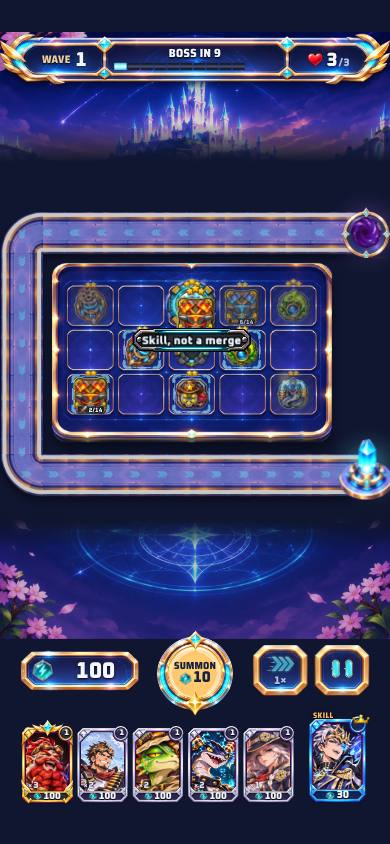
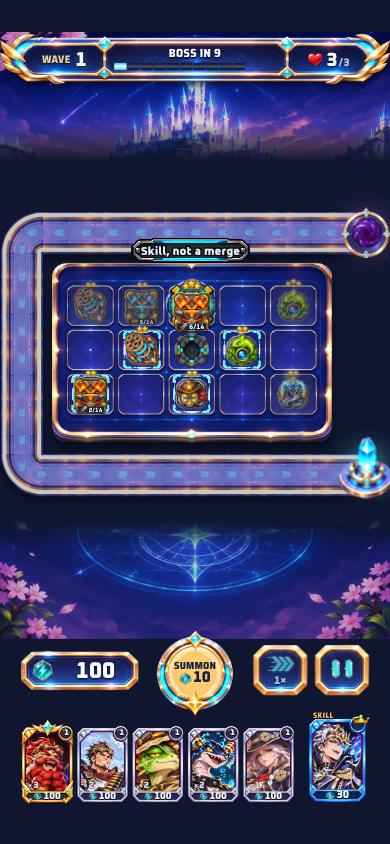
Static Jammer: vòng xích + khoá và dây xích nối cặp (ảnh ChatGPT); Twin Anvil: huy hiệu TWIN-FORGED cố định, nhãn kéo không che ô
Claude-Session: https://claude.ai/code/session_01KQA7LFBkcdkiPiLcwYs7V2

diff --git a/thap/js/render.js b/thap/js/render.js
@@ -1101,9 +1101,25 @@ const REN = {
         if (ng && ng.ban === B.i && ng !== T && !hopLeGhep(ng, T)) o.alpha = 0.62; // ô không ghép được: mờ nhẹ (spec TU-VAN-HIEU-UNG-CHUNG mục 1D)
         this.veU(ctx, T, B.o[i].x, B.o[i].y, o);
       }
+      this.veXichDay(ctx, B);
     }
     // ụ bay vào nhau khi ghép
     for (const b of G.bay) VX.veBay(ctx, b, this);
+  },
+
+  // Static Jammer (12/11): DÂY XÍCH nối 2 ụ của cùng một cặp xích — ảnh ChatGPT trum_xich_day (5 mắt, lặp nối tiếp) đặt dọc đoạn nối tâm 2 ô,
+  //  vẽ TRÊN lớp ụ (dưới thì ụ che gần hết khi 2 ô sát nhau). Chỉ là hình: đọc T.xich, không đổi trạng thái trận. Bàn con rối online chưa có T.xich → chỉ có vòng.
+  veXichDay(ctx, B) {
+    let im = null;
+    for (const T of B.t) {
+      if (!T || !T.xich || !T.xich.doi) continue;
+      const D = B.t.find(N => N && N.uid === T.xich.doi && N.xich); if (!D || D.uid < T.uid) continue; // mỗi cặp vẽ 1 lần
+      if (!im && !(im = this.img('trum_xich_day'))) return;
+      const a = B.o[T.o], b = B.o[D.o], L = Math.hypot(b.x - a.x, b.y - a.y), h = Math.min(B.cw, B.ch) * 0.22, tw0 = h * im.width / im.height;
+      const n = Math.max(1, Math.round(L / tw0)), tw = L / n, g = Math.atan2(b.y - a.y, b.x - a.x), al = ctx.globalAlpha;
+      for (let i = 0; i < n; i++) { const u = (i + 0.5) / n; this.anhGiua(ctx, im, a.x + (b.x - a.x) * u, a.y + (b.y - a.y) * u, tw, g || 1e-6, 0.95); }
+      ctx.globalAlpha = al;
+    }
   },
 
   // vẽ 1 ụ: bóng · bệ · đầu súng xoay (giật lùi) · lớp phủ trạng thái · xúc xắc sao
@@ -1211,7 +1227,9 @@ const REN = {
     if (skT.veThemTren) veThem();
     // bản sao của Copycat: quầng TÍM (màu ảo ảnh của đầu Copycat) rõ hơn + huy hiệu nho/saochep ở góc trên-trái (nhandien.js) → không nhầm với ụ thật
     if (T.banSao && !o.ghost) { ctx.save(); ctx.globalCompositeOperation = 'lighter'; ctx.globalAlpha = al * 0.22; this.anhGiua(ctx, this.cham1('#a35cff'), 0, 0, S * 1.05); /* VFX P3 */ ctx.restore(); ctx.globalAlpha = al; }
-    const xich = T.st.kep > 0 && !o.ghost ? this.co('vong_xich', S * 0.9) : null; // vòng xích ChatGPT (S4), xoay chậm
+    const xJam = T.st.cam > 0 && T.st.kep > 0 && !o.ghost; // bị Static Jammer XÍCH: vòng xích tím + ổ khoá ở đáy (ảnh ChatGPT trum_xich_vong, đứng yên — khoá không che số sao phía trên)
+    if (xJam && this.img('trum_xich_vong')) { this.anhGiua(ctx, 'trum_xich_vong', 0, 0, S * 1.05, 0, al * 0.96); ctx.globalAlpha = al; }
+    const xich = T.st.kep > 0 && !o.ghost && !(xJam && this.img('trum_xich_vong')) ? this.co('vong_xich', S * 0.9) : null; // vòng xích ChatGPT (S4), xoay chậm (Kẹp / Nhiễu; Jammer khi ảnh mới chưa tải)
     if (xich) { ctx.save(); ctx.globalAlpha = al * 0.9; ctx.rotate(this.t * 0.6); ctx.drawImage(xich, -S * 0.45, -S * 0.45, S * 0.9, S * 0.9); ctx.restore(); ctx.globalAlpha = al; }
     // lớp phủ trạng thái
     // băng (Freezer & mọi nguồn): khối băng bọc ô + vành + lấp lánh; hết băng → vỡ (js/bangfx.js)

diff --git a/thap/js/demkn.js b/thap/js/demkn.js
@@ -38,7 +38,7 @@ const DEMKN = {
   // ĐỘT PHÁ (vangmoi1.js DOTPHA): bậc 1–4 → icon PNG lọc màu (vàng / lam / tím / trắng, ảnh dựng 1 lần) + chữ cùng màu
   // ụ đã được Twin Anvil rèn (mọi loại): số cộng dồn; SONG SINH = 2 cặp, chữ vàng
   anv(T) { const a = T.anv; return a && a.lo ? { m: a.x ? [{ ic: 'ic_dmg', s: a.lo + '' }, { ic: 'ic_toc', s: a.lo + '' }] : [{ ic: a.k === 'toc' ? 'ic_toc' : 'ic_dmg', s: a.lo + '' }], sang: !!a.x } : null; },
-  lay(T, B) { const f = this.DS[T.id] || (T.anv ? this.anv : null); if (!f || !B || T.st.da) return null; try { const v = f(T, B); if (v && typeof DOTPHA !== 'undefined') { const b = DOTPHA.bacU(T); if (b) { v.bac = b; v.v4 = b === 4 ? DOTPHA.buoc4() : -1; v.mau = b === 4 ? ['#ffb0b0', '#fff0a0', '#b0ffb8', '#a8f4ff', '#b8c4ff', '#ffb8f4'][v.v4] : DOTPHA.MAU[b]; v.sang = false; if (T.id === 'lualien') v.giuMau = 1; } } return v; } catch (e) { return null; } }, // Ember (lualien): icon lửa lua_t1–4 đã tô màu theo mốc → giuMau, không phủ lọc màu bậc (sửa lỗi tester 08/11)
+  lay(T, B) { const f = this.DS[T.id] || (T.anv && !T.anv.x ? this.anv : null); if (!f || !B || T.st.da) return null; try { const v = f(T, B); if (v && typeof DOTPHA !== 'undefined') { const b = DOTPHA.bacU(T); if (b) { v.bac = b; v.v4 = b === 4 ? DOTPHA.buoc4() : -1; v.mau = b === 4 ? ['#ffb0b0', '#fff0a0', '#b0ffb8', '#a8f4ff', '#b8c4ff', '#ffb8f4'][v.v4] : DOTPHA.MAU[b]; v.sang = false; if (T.id === 'lualien') v.giuMau = 1; } } return v; } catch (e) { return null; } }, // Ember (lualien): icon lửa lua_t1–4 đã tô màu theo mốc → giuMau, không phủ lọc màu bậc (sửa lỗi tester 08/11)
 
   // khung h2_tag (74×30, mép 14 px) cắt 3 mảnh: 2 đầu giữ tỉ lệ, phần giữa kéo dài
   khung(ctx, x, y, w, h) {
@@ -53,6 +53,8 @@ const DEMKN = {
   // CHỐNG NÓNG MÁY: tấm đếm dựng sẵn thành ẢNH (đúng điểm ảnh thiết bị) theo nội dung — chỉ dựng lại khi số đổi
   // (trước: mỗi khung đo chữ + viền chữ + tô chữ cho từng ụ). Đặt ảnh đúng lưới điểm ảnh → chữ nét y hệt vẽ trực tiếp.
   ve(ctx, T, B, x, yDay, c, al) {
+    // TWIN-FORGED (Twin Anvil song sinh): huy hiệu ảnh loren_songsinh ở góc dưới-phải ô (thay 2 con số nhỏ khó đọc) — không đè số sao (trên) / tấm đếm (giữa đáy)
+    if (T.anv && T.anv.x && !T.st.da && typeof REN !== 'undefined' && REN.img('loren_songsinh')) { const g = ctx.globalAlpha; REN.anhGiua(ctx, 'loren_songsinh', x + c * 0.31, yDay - c * 0.13, c * 0.34, 0, al); ctx.globalAlpha = g; }
     const v = this.lay(T, B); if (!v) return;
     const h = Math.max(9, c * 0.2), m = ctx.getTransform(), k = m.a;
     if (!(k > 0) || Math.abs(m.b) > 1e-6 || Math.abs(m.c) > 1e-6 || Math.abs(m.d - k) > 1e-6 || typeof REN === 'undefined' || !REN.cGet) return this.ve0(ctx, v, x, yDay, h, al);

diff --git a/thap/js/ui.js b/thap/js/ui.js
@@ -214,7 +214,7 @@ c.style.setProperty('--m', TIERS[r.bac].mau);
     // (bỏ nạp fx_sinhdoi_hieu: biểu tượng sinh đôi nổi trên ô đã bỏ 08/11, hieuung.js không vẽ nữa)
     for (const b of bans) for (const id of b.deck) ds.push('glyph/' + id); // biểu tượng nhận diện (ảnh ChatGPT, bóng trắng)
     // ảnh ChatGPT thay hình vẽ code trên canvas: huy hiệu sao, ngọc độ hiếm, icon buff, lõi hư, mũi tên đường, bảng tên bàn
-    ds.push('sao_hex', 'sao_hex7', 'ngoc_trang', 'ngoc_xanh', 'ngoc_tim', 'ngoc_vang', 'ngoc_do', 'loi_hu1', 'loi_hu2', 'duong_mui', 'hud_ten_ban', 'fx_vong_lv', 'vong_xich', 'fx_vong_trieu', 'hat_tuyet', 'pandora_dia', 'hu_hoden', 'hu_khoa', 'hu_luoicua', 'hu_manhguong', 'hu_trangkhuyet', 'hu_min', 'hu_cauvong',
+    ds.push('sao_hex', 'sao_hex7', 'ngoc_trang', 'ngoc_xanh', 'ngoc_tim', 'ngoc_vang', 'ngoc_do', 'loi_hu1', 'loi_hu2', 'duong_mui', 'hud_ten_ban', 'fx_vong_lv', 'vong_xich', 'trum_xich_vong', 'trum_xich_day', 'loren_songsinh', 'fx_vong_trieu', 'hat_tuyet', 'pandora_dia', 'hu_hoden', 'hu_khoa', 'hu_luoicua', 'hu_manhguong', 'hu_trangkhuyet', 'hu_min', 'hu_cauvong',
       'ic_toc', 'ic_dmg', 'ic_crit', 'ic_cham', 'ic_chet', 'ic_mana', 'ic_khien', 'ic_taylo', 'ic_sao', 'ic_bom', 'ic_truyna');
     if (typeof BVX !== 'undefined') ds.push(...BVX.ANH); // hào quang buff (buffvfx.js)
     for (const q of Object.keys(QUAI)) ds.push('quai_' + (QUAI[q].anh || q));

diff --git a/thap/js/ghepfx.js b/thap/js/ghepfx.js
@@ -214,6 +214,7 @@ const GF = {
     if (KG.soMeo() >= 3 && (s === KG.TXT.tip || s === KG.TXT.tapTip)) return; // mẹo kỹ năng kéo thả / ghép đặc biệt: luôn hiện
     if (!KG._tip || KG._tip.s !== s) KG._tip = { s, t0: performance.now() };
     const u = Math.min(1, (performance.now() - KG._tip.t0) / 140);
+    if (src.id === 'loren' && dang) { KG.tam(ctx, s, B.x + B.w / 2, B.y - 12, 13, '#eaf6ff', u, 0.9 + 0.1 * u); return; } // Twin Anvil (12/11): nhãn nằm TRÊN mép bàn — đặt dưới ô đích thì che ụ hàng dưới
     KG.tam(ctx, s, c.x, Math.min(y, B.y + B.h - 10), 13, '#eaf6ff', u, 0.9 + 0.1 * u);
   },
 

diff --git a/thap/js/keoghep.js b/thap/js/keoghep.js
@@ -114,6 +114,7 @@ const KG = {
     if (this.soMeo() >= 3 && (s === this.TXT.tip || s === this.TXT.tapTip)) return;
     if (!this._tip || this._tip.s !== s) this._tip = { s, t0: performance.now() };
     const u = Math.min(1, (performance.now() - this._tip.t0) / 140);
+    if (src.id === 'loren') { this.tam(ctx, s, B.x + B.w / 2, B.y - 12, 13, '#eaf6ff', u, 0.9 + 0.1 * u); return; } // Twin Anvil (12/11): nhãn nằm TRÊN mép bàn — trước đó che ụ ở hàng trên ô đích
     this.tam(ctx, s, c.x, c.y - Math.min(B.cw, B.ch) * 0.78, 13, '#eaf6ff', u, 0.9 + 0.1 * u);
   },
   // tấm chữ (ảnh nhan_kn) + chữ canvas

diff --git a/thap/QUY-TAC-HINH.md b/thap/QUY-TAC-HINH.md
@@ -14,3 +14,5 @@
 9. **Kiểm tra gọn (tiết kiệm token — người dùng 08/11):** theo chính sách test trong CLAUDE.md: sửa nhỏ = `node --check` + tối đa 1 test liên quan; sửa giao diện thêm 1 ảnh 390×844; chỉ thay đổi lớn mới chạy bộ liên quan. Hồi quy đầy đủ (`tools/thap-kt-hoiquy.js`) chỉ chạy khi người dùng yêu cầu.
 - (Hướng quái) Quái/tinh anh/trùm ĐI theo hướng làn (ngang = nhìn nghiêng, lên = quay lưng, xuống = mặt trước); chỉ khi DÙNG SKILL mới quay mặt về phía bàn ụ, xong quay lại hướng làn. Áp dụng mọi chế độ.
 10. **Hợp đồng kéo-thả bộ bài (js/dkkeo.js) — đổi giao diện ô/lưới phải GIỮ**: thẻ lưới = phần tử `[data-id]` trong `#chon-luoi`; ô bộ bài = `[data-slot="0..4"]` trong `#chon-bo` (có `data-id` khi có ụ); ô chỉ huy = `[data-slot="mv"]`; lưới màn bộ bài `touch-action:none` (dkkeo.js tự cuộn — đừng đặt lại pan-y, iOS sẽ giành cử chỉ); lớp phủ mới trên ô phải `pointer-events:none` hoặc nằm trong ô. Kiểm: `node tools/thap-kt-keo.js` (có trong thap-kt-hoiquy.js) phải ✓.
+
+- **12/11 — ảnh ChatGPT cho xích Static Jammer + Twin Anvil song sinh** (đã cắt nền, điều phối đẩy `8057751db`): `assets/trum_xich_vong.png` (256×256, vòng xích tím + ổ khoá ở đáy) · `assets/trum_xich_day.png` (256×65, 5 mắt xích lặp nối tiếp) · `assets/loren_songsinh.png` (160×160, huy hiệu 2 búa lửa / băng). Code chỉ đặt ảnh (`render.js` veU / veXichDay, `demkn.js`).
